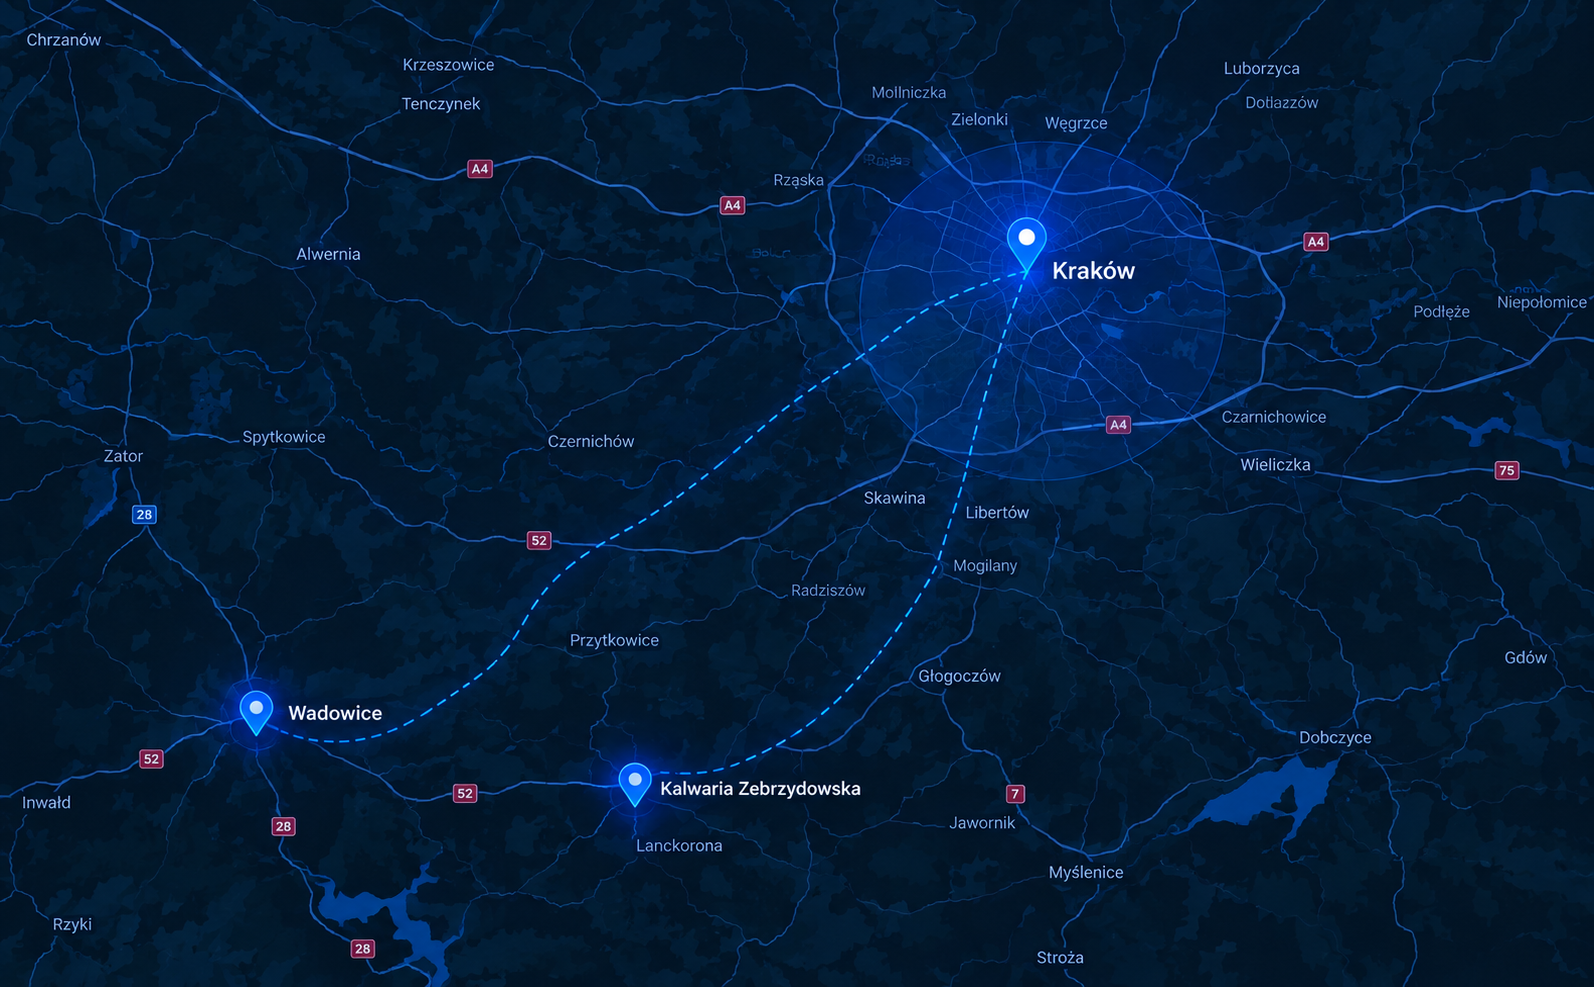
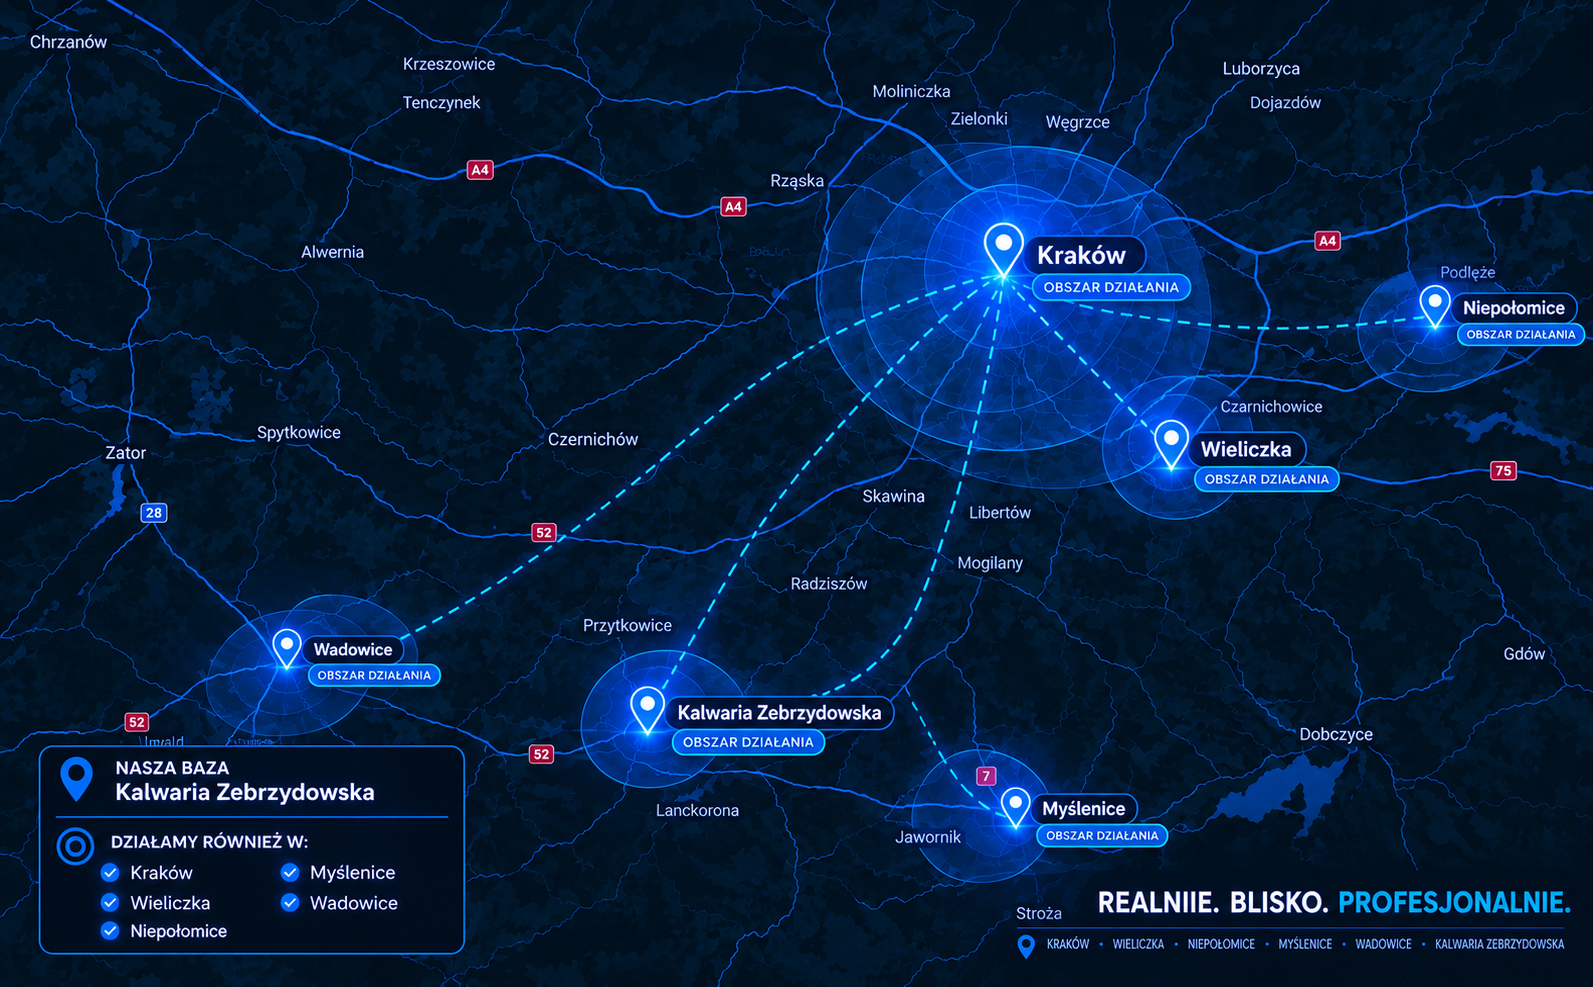
Dodano realizację

diff --git a/src/data/projects.ts b/src/data/projects.ts
@@ -1,4 +1,5 @@
 import type { Project, ProjectCategory } from "@/types";
+import { site } from "@/data/site";
 
 export const projectCategories: ProjectCategory[] = [
   "Kodowanie samochodowe",
@@ -6,6 +7,22 @@ export const projectCategories: ProjectCategory[] = [
   "Mycie detailingowe",
   "Inne",
 ];
+
+// Dobry `alt` = opisuje KONKRETNIE co widać (marka, model, czynność), krótko,
+// bez upychania słów kluczowych. Te funkcje używane są tylko wtedy, gdy
+// nie wpiszesz własnego `coverImageAlt` / `beforeImageAlt` / `afterImageAlt`
+// przy danej realizacji — jeśli wpiszesz własny, zawsze wygrywa Twoja wersja.
+export function getCoverAlt(project: Project): string {
+  return project.coverImageAlt || `${project.title} — ${site.name}`;
+}
+
+export function getBeforeAlt(project: Project): string {
+  return project.beforeImageAlt || `${project.title} — przed`;
+}
+
+export function getAfterAlt(project: Project): string {
+  return project.afterImageAlt || `${project.title} — po`;
+}
 
 // Realizacje są celowo puste — pokazujemy uczciwy placeholder zamiast
 // wymyślonych zdjęć. Żeby dodać prawdziwą realizację:
@@ -16,6 +33,10 @@ export const projectCategories: ProjectCategory[] = [
 //    na odpowiedniej podstronie usługi.
 // Grid, filtrowanie, strona szczegółów /realizacje/[slug] i sekcje
 // powiązanych realizacji na podstronach usług obsłużą nowy wpis automatycznie.
+//
+// WAŻNE: `slug` musi być unikalny dla każdej realizacji — Next.js buduje
+// z niego adres URL (/realizacje/<slug>), więc dwa wpisy z tym samym
+// slugiem powodują błąd builda.
 export const projects: Project[] = [
   // Przykład docelowego wpisu (odkomentuj i uzupełnij, gdy pojawią się zdjęcia):
   // {
@@ -27,8 +48,56 @@ export const projects: Project[] = [
   //   date: "2026-03",
   //   description: "Aktywacja Apple CarPlay przez kodowanie jednostki EVO.",
   //   coverImage: "/images/projects/bmw-g20-carplay-2026/cover.jpg",
-  //   images: ["/images/projects/bmw-g20-carplay-2026/1.jpg"],
+  //   coverImageAlt: "BMW G20 — deska rozdzielcza z aktywnym Apple CarPlay",
+  //   images: [
+  //     { src: "/images/projects/bmw-g20-carplay-2026/1.jpg", alt: "Podłączenie jednostki EVO podczas kodowania BMW G20" },
+  //     { src: "/images/projects/bmw-g20-carplay-2026/2.jpg", alt: "Ekran multimedialny BMW G20 z uruchomionym CarPlay" },
+  //   ],
   // },
+
+  {
+    slug: "kodowanie-vw-atlas",
+    title: "VW Atlas — kodowanie i wymiana akumulatora",
+    category: "Kodowanie samochodowe",
+    service: "kodowanie-samochodowe",
+    vehicle: "VW Atlas",
+    date: "2026-08",
+    description: "Kodowanie modułów oraz wymiana akumulatora w VW Atlas.",
+    coverImage: "/images/projects/kodowanie-vw-atlas/kodowanie.jpeg",
+    coverImageAlt: "VW Atlas — kodowanie modułów sterujących na stanowisku diagnostycznym",
+  },
+
+  {
+    slug: "wymiana-ekranu-q5",
+    title: "Audi Q5 — wymiana ekranu",
+    category: "Multimedia & Retrofit",
+    service: "multimedia-retrofit", // POPRAWIONE — było "multimedia i retrofit" (niepoprawny slug)
+    vehicle: "Audi Q5",
+    date: "2026-07",
+    description: "Wymiana fabrycznego ekranu na większy, z aktywacją Apple CarPlay i Android Auto.",
+    coverImage: "/images/projects/wymiana-ekranu-q5/glowne.jpeg",
+    coverImageAlt: "Audi Q5 — duży ekran wielofunkcyjny po wymianie",
+    beforeImage: "/images/projects/wymiana-ekranu-q5/przed.jpeg",
+    beforeImageAlt: "Audi Q5 — oryginalny, mniejszy ekran multimedialny przed wymianą",
+    afterImage: "/images/projects/wymiana-ekranu-q5/po.jpeg",
+    afterImageAlt: "Audi Q5 — nowy, większy ekran zamontowany w desce rozdzielczej",
+  },
+
+  {
+    slug: "kodowanie-carplay-a4",
+    title: "Audi A4 — kodowanie CarPlay i Android Auto",
+    category: "Kodowanie samochodowe",
+    service: "kodowanie-samochodowe",
+    vehicle: "Audi A4",
+    date: "2026-09",
+    description: "Aktywacja Apple CarPlay i Android Auto w seryjnej jednostce multimedialnej.",
+    coverImage: "/images/projects/kodowanie-carplay-a4/android.jpeg",
+    coverImageAlt: "Audi A4 — Android Auto uruchomiony na ekranie multimedialnym",
+    beforeImage: "/images/projects/kodowanie-carplay-a4/przed.jpeg",
+    beforeImageAlt: "Audi A4 — ekran multimedialny przed aktywacją CarPlay",
+    afterImage: "/images/projects/kodowanie-carplay-a4/po.jpeg",
+    afterImageAlt: "Audi A4 — CarPlay aktywowany na ekranie po kodowaniu",
+  },
 ];
 
 export function getProjectBySlug(slug: string): Project | undefined {

diff --git a/src/app/realizacje/[slug]/page.tsx b/src/app/realizacje/[slug]/page.tsx
@@ -8,7 +8,7 @@ import { CtaBand } from "@/components/services/CtaBand";
 import { BeforeAfter } from "@/components/projects/BeforeAfter";
 import { RelatedServices } from "@/components/services/RelatedServices";
 import { IconCamera } from "@/components/ui/icons";
-import { projects, getProjectBySlug } from "@/data/projects";
+import { projects, getProjectBySlug, getCoverAlt, getBeforeAlt, getAfterAlt } from "@/data/projects";
 import { getServiceBySlug } from "@/data/services";
 
 export function generateStaticParams() {
@@ -65,7 +65,7 @@ export default function ProjectPage({ params }: { params: { slug: string } }) {
             {project.coverImage ? (
               <Image
                 src={project.coverImage}
-                alt={project.title}
+                alt={getCoverAlt(project)}
                 fill
                 sizes="(min-width: 1024px) 1100px, 100vw"
                 className="object-cover"
@@ -77,9 +77,9 @@ export default function ProjectPage({ params }: { params: { slug: string } }) {
 
           {project.images && project.images.length > 0 && (
             <div className="mt-4 grid grid-cols-2 gap-4 sm:grid-cols-3">
-              {project.images.map((src) => (
-                <div key={src} className="relative aspect-[4/3] overflow-hidden rounded border border-ink-800 bg-ink-900">
-                  <Image src={src} alt={project.title} fill sizes="(min-width: 640px) 33vw, 50vw" className="object-cover" />
+              {project.images.map((image) => (
+                <div key={image.src} className="relative aspect-[4/3] overflow-hidden rounded border border-ink-800 bg-ink-900">
+                  <Image src={image.src} alt={image.alt} fill sizes="(min-width: 640px) 33vw, 50vw" className="object-cover" />
                 </div>
               ))}
             </div>
@@ -91,7 +91,12 @@ export default function ProjectPage({ params }: { params: { slug: string } }) {
         <section className="border-t border-ink-800 bg-ink-950 py-16">
           <Container>
             <h2 className="mb-6 font-display text-xl font-semibold text-paper-100">Przed / Po</h2>
-            <BeforeAfter beforeImage={project.beforeImage} afterImage={project.afterImage} />
+            <BeforeAfter
+              beforeImage={project.beforeImage}
+              beforeAlt={getBeforeAlt(project)}
+              afterImage={project.afterImage}
+              afterAlt={getAfterAlt(project)}
+            />
           </Container>
         </section>
       )}

diff --git a/src/components/projects/BeforeAfter.tsx b/src/components/projects/BeforeAfter.tsx
@@ -1,12 +1,12 @@
 import Image from "next/image";
 import { IconCamera } from "@/components/ui/icons";
 
-function Slot({ src, label }: { src?: string; label: string }) {
+function Slot({ src, alt, label }: { src?: string; alt: string; label: string }) {
   return (
     <div className="relative flex aspect-[4/3] flex-col items-center justify-center gap-2 overflow-hidden rounded border border-ink-800 bg-ink-900 text-paper-500">
       {src ? (
         <>
-          <Image src={src} alt={label} fill sizes="(min-width: 640px) 50vw, 100vw" className="object-cover" />
+          <Image src={src} alt={alt} fill sizes="(min-width: 640px) 50vw, 100vw" className="object-cover" />
           <span className="absolute left-3 top-3 rounded-full border border-ink-600 bg-ink-950/80 px-2.5 py-1 text-[10px] font-semibold uppercase tracking-wide text-paper-200">
             {label}
           </span>
@@ -21,11 +21,21 @@ function Slot({ src, label }: { src?: string; label: string }) {
   );
 }
 
-export function BeforeAfter({ beforeImage, afterImage }: { beforeImage?: string; afterImage?: string }) {
+export function BeforeAfter({
+  beforeImage,
+  beforeAlt,
+  afterImage,
+  afterAlt,
+}: {
+  beforeImage?: string;
+  beforeAlt: string;
+  afterImage?: string;
+  afterAlt: string;
+}) {
   return (
     <div className="grid gap-4 sm:grid-cols-2">
-      <Slot src={beforeImage} label="Przed" />
-      <Slot src={afterImage} label="Po" />
+      <Slot src={beforeImage} alt={beforeAlt} label="Przed" />
+      <Slot src={afterImage} alt={afterAlt} label="Po" />
     </div>
   );
 }

diff --git a/src/types/index.ts b/src/types/index.ts
@@ -49,9 +49,11 @@ export type Service = {
   tileTitle: string;
   tileDescription: string; // 1 zdanie
   tileImage?: string; // ścieżka w /public, np. "/images/services/detailing/tile.jpg" — pokazuje się na kaflu (homepage + /uslugi)
+  tileImageAlt?: string; // jeśli puste, generowane automatycznie z tileTitle
 
   // --- treść podstrony (tylko gdy confirmed: true) ---
   heroImage?: string; // zdjęcie w tle pełnoszerokościowego hero na podstronie usługi
+  heroImageAlt?: string; // jeśli puste, generowane automatycznie z heroTitle
   heroTitle?: string;
   heroSubtitle?: string;
   metaTitle?: string;
@@ -83,6 +85,11 @@ export type ProjectCategory =
   | "Mycie detailingowe"
   | "Inne";
 
+export type ProjectImage = {
+  src: string;
+  alt: string; // opisz KONKRETNIE co widać na tym zdjęciu — patrz przykład w projects.ts
+};
+
 export type Project = {
   slug: string;
   title: string;
@@ -92,9 +99,12 @@ export type Project = {
   date?: string; // np. "2026-03"
   description?: string;
   coverImage?: string;
-  images?: string[];
+  coverImageAlt?: string; // jeśli puste, generowane automatycznie z tytułu (patrz getCoverAlt)
+  images?: ProjectImage[]; // każde zdjęcie ma WŁASNY, opisowy alt — nie jeden wspólny
   beforeImage?: string;
+  beforeImageAlt?: string; // jeśli puste, generowane automatycznie
   afterImage?: string;
+  afterImageAlt?: string; // jeśli puste, generowane automatycznie
 };
 
 export type ServiceOption = {

diff --git a/src/components/projects/ProjectGrid.tsx b/src/components/projects/ProjectGrid.tsx
@@ -6,6 +6,7 @@ import { ProjectCard } from "@/components/projects/ProjectCard";
 import { IconCamera } from "@/components/ui/icons";
 import type { Project, ProjectCategory } from "@/types";
 import { site } from "@/data/site";
+import { getCoverAlt } from "@/data/projects";
 
 export function ProjectGrid({ projects, categories }: { projects: Project[]; categories: ProjectCategory[] }) {
   const [active, setActive] = useState<string>("Wszystkie");
@@ -56,7 +57,7 @@ export function ProjectGrid({ projects, categories }: { projects: Project[]; cat
 
       <div className="mt-8 grid gap-4 sm:grid-cols-2 lg:grid-cols-3">
         {filtered.map((project) => (
-          <ProjectCard key={project.slug} slug={project.slug} title={project.title} category={project.category} vehicle={project.vehicle} coverImage={project.coverImage} />
+          <ProjectCard key={project.slug} slug={project.slug} title={project.title} category={project.category} vehicle={project.vehicle} coverImage={project.coverImage} coverImageAlt={getCoverAlt(project)} />
         ))}
       </div>
     </div>

diff --git a/src/components/projects/ProjectPreview.tsx b/src/components/projects/ProjectPreview.tsx
@@ -3,6 +3,7 @@ import { ProjectCard } from "@/components/projects/ProjectCard";
 import { IconCamera } from "@/components/ui/icons";
 import type { Project } from "@/types";
 import { site } from "@/data/site";
+import { getCoverAlt } from "@/data/projects";
 
 export function ProjectPreview({ projects, allHref = "/realizacje" }: { projects: Project[]; allHref?: string }) {
   if (projects.length === 0) {
@@ -29,7 +30,7 @@ export function ProjectPreview({ projects, allHref = "/realizacje" }: { projects
     <div>
       <div className="grid gap-4 sm:grid-cols-2 lg:grid-cols-3">
         {projects.map((project) => (
-          <ProjectCard key={project.slug} slug={project.slug} title={project.title} category={project.category} vehicle={project.vehicle} coverImage={project.coverImage} />
+          <ProjectCard key={project.slug} slug={project.slug} title={project.title} category={project.category} vehicle={project.vehicle} coverImage={project.coverImage} coverImageAlt={getCoverAlt(project)} />
         ))}
       </div>
       <div className="mt-6">

diff --git a/src/components/projects/ProjectCard.tsx b/src/components/projects/ProjectCard.tsx
@@ -8,9 +8,10 @@ type ProjectCardProps = {
   category: string;
   vehicle?: string;
   coverImage?: string;
+  coverImageAlt: string;
 };
 
-export function ProjectCard({ slug, title, category, vehicle, coverImage }: ProjectCardProps) {
+export function ProjectCard({ slug, title, category, vehicle, coverImage, coverImageAlt }: ProjectCardProps) {
   return (
     <Link
       href={`/realizacje/${slug}`}
@@ -19,7 +20,7 @@ export function ProjectCard({ slug, title, category, vehicle, coverImage }: Proj
       {coverImage ? (
         <Image
           src={coverImage}
-          alt={title}
+          alt={coverImageAlt}
           fill
           sizes="(min-width: 1024px) 33vw, (min-width: 640px) 50vw, 100vw"
           className="object-cover transition-transform duration-500 group-hover:scale-105"

diff --git a/src/components/services/ServiceTile.tsx b/src/components/services/ServiceTile.tsx
@@ -2,6 +2,7 @@ import Image from "next/image";
 import Link from "next/link";
 import type { Service } from "@/types";
 import { cn } from "@/lib/cn";
+import { site } from "@/data/site";
 
 export function ServiceTile({ service, size = "md" }: { service: Service; size?: "md" | "lg" }) {
   const href = `/uslugi/${service.slug}`;
@@ -17,7 +18,7 @@ export function ServiceTile({ service, size = "md" }: { service: Service; size?:
       {service.tileImage ? (
         <Image
           src={service.tileImage}
-          alt={service.tileTitle}
+          alt={service.tileImageAlt || `${service.tileTitle} — ${site.name}`}
           fill
           sizes="(min-width: 1024px) 33vw, (min-width: 640px) 50vw, 100vw"
           className="object-cover transition-transform duration-500 group-hover:scale-105"

diff --git a/src/data/site.ts b/src/data/site.ts
@@ -42,7 +42,7 @@ export const site = {
   // - heroVideo: krótki film w panelu po prawej (autoplay, wyciszony, w pętli)
   // Puste = elegancki placeholder zamiast któregokolwiek z nich. Pliki wrzuć
   // do /public/images/ (zdjęcie) i /public/videos/ (film).
-  heroBackgroundImage: "",
+  heroBackgroundImage: "/images/hero.png",
   heroVideo: "/videos/hero_film.mp4",
   // Google tag (gtag.js) — współdzielony loader dla Google Analytics (GA4)
   // i Google Ads (śledzenie konwersji). Puste = NIC się nie ładuje i baner
